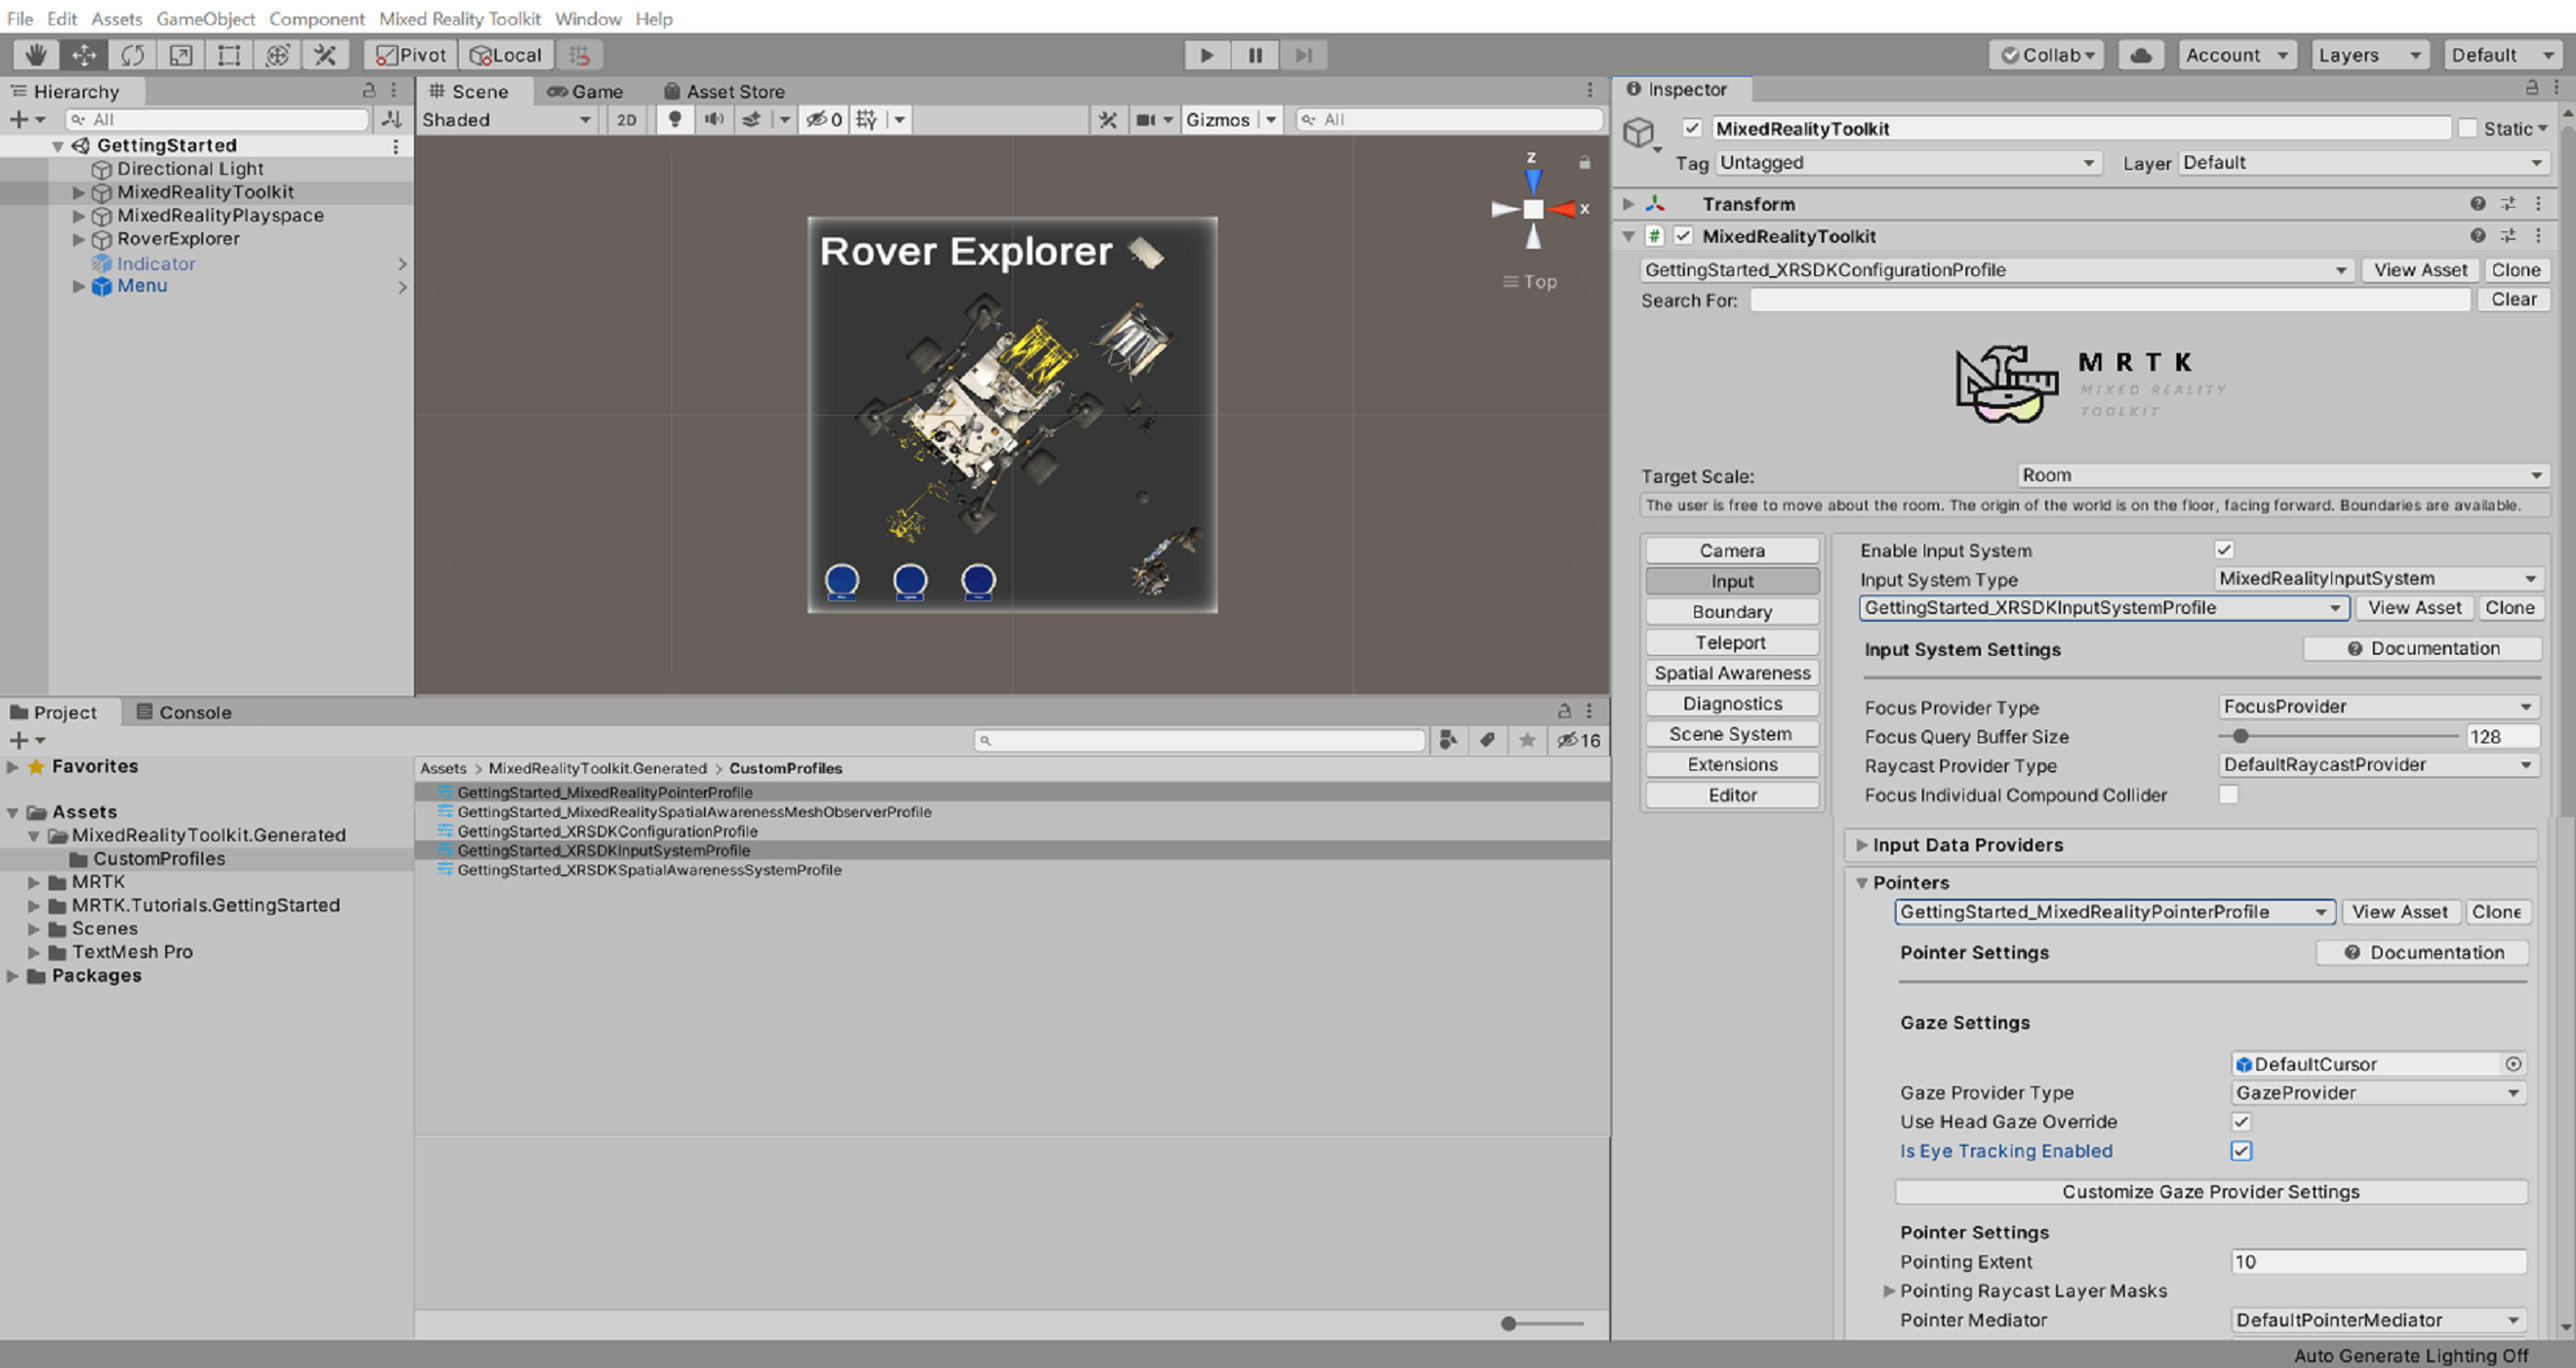
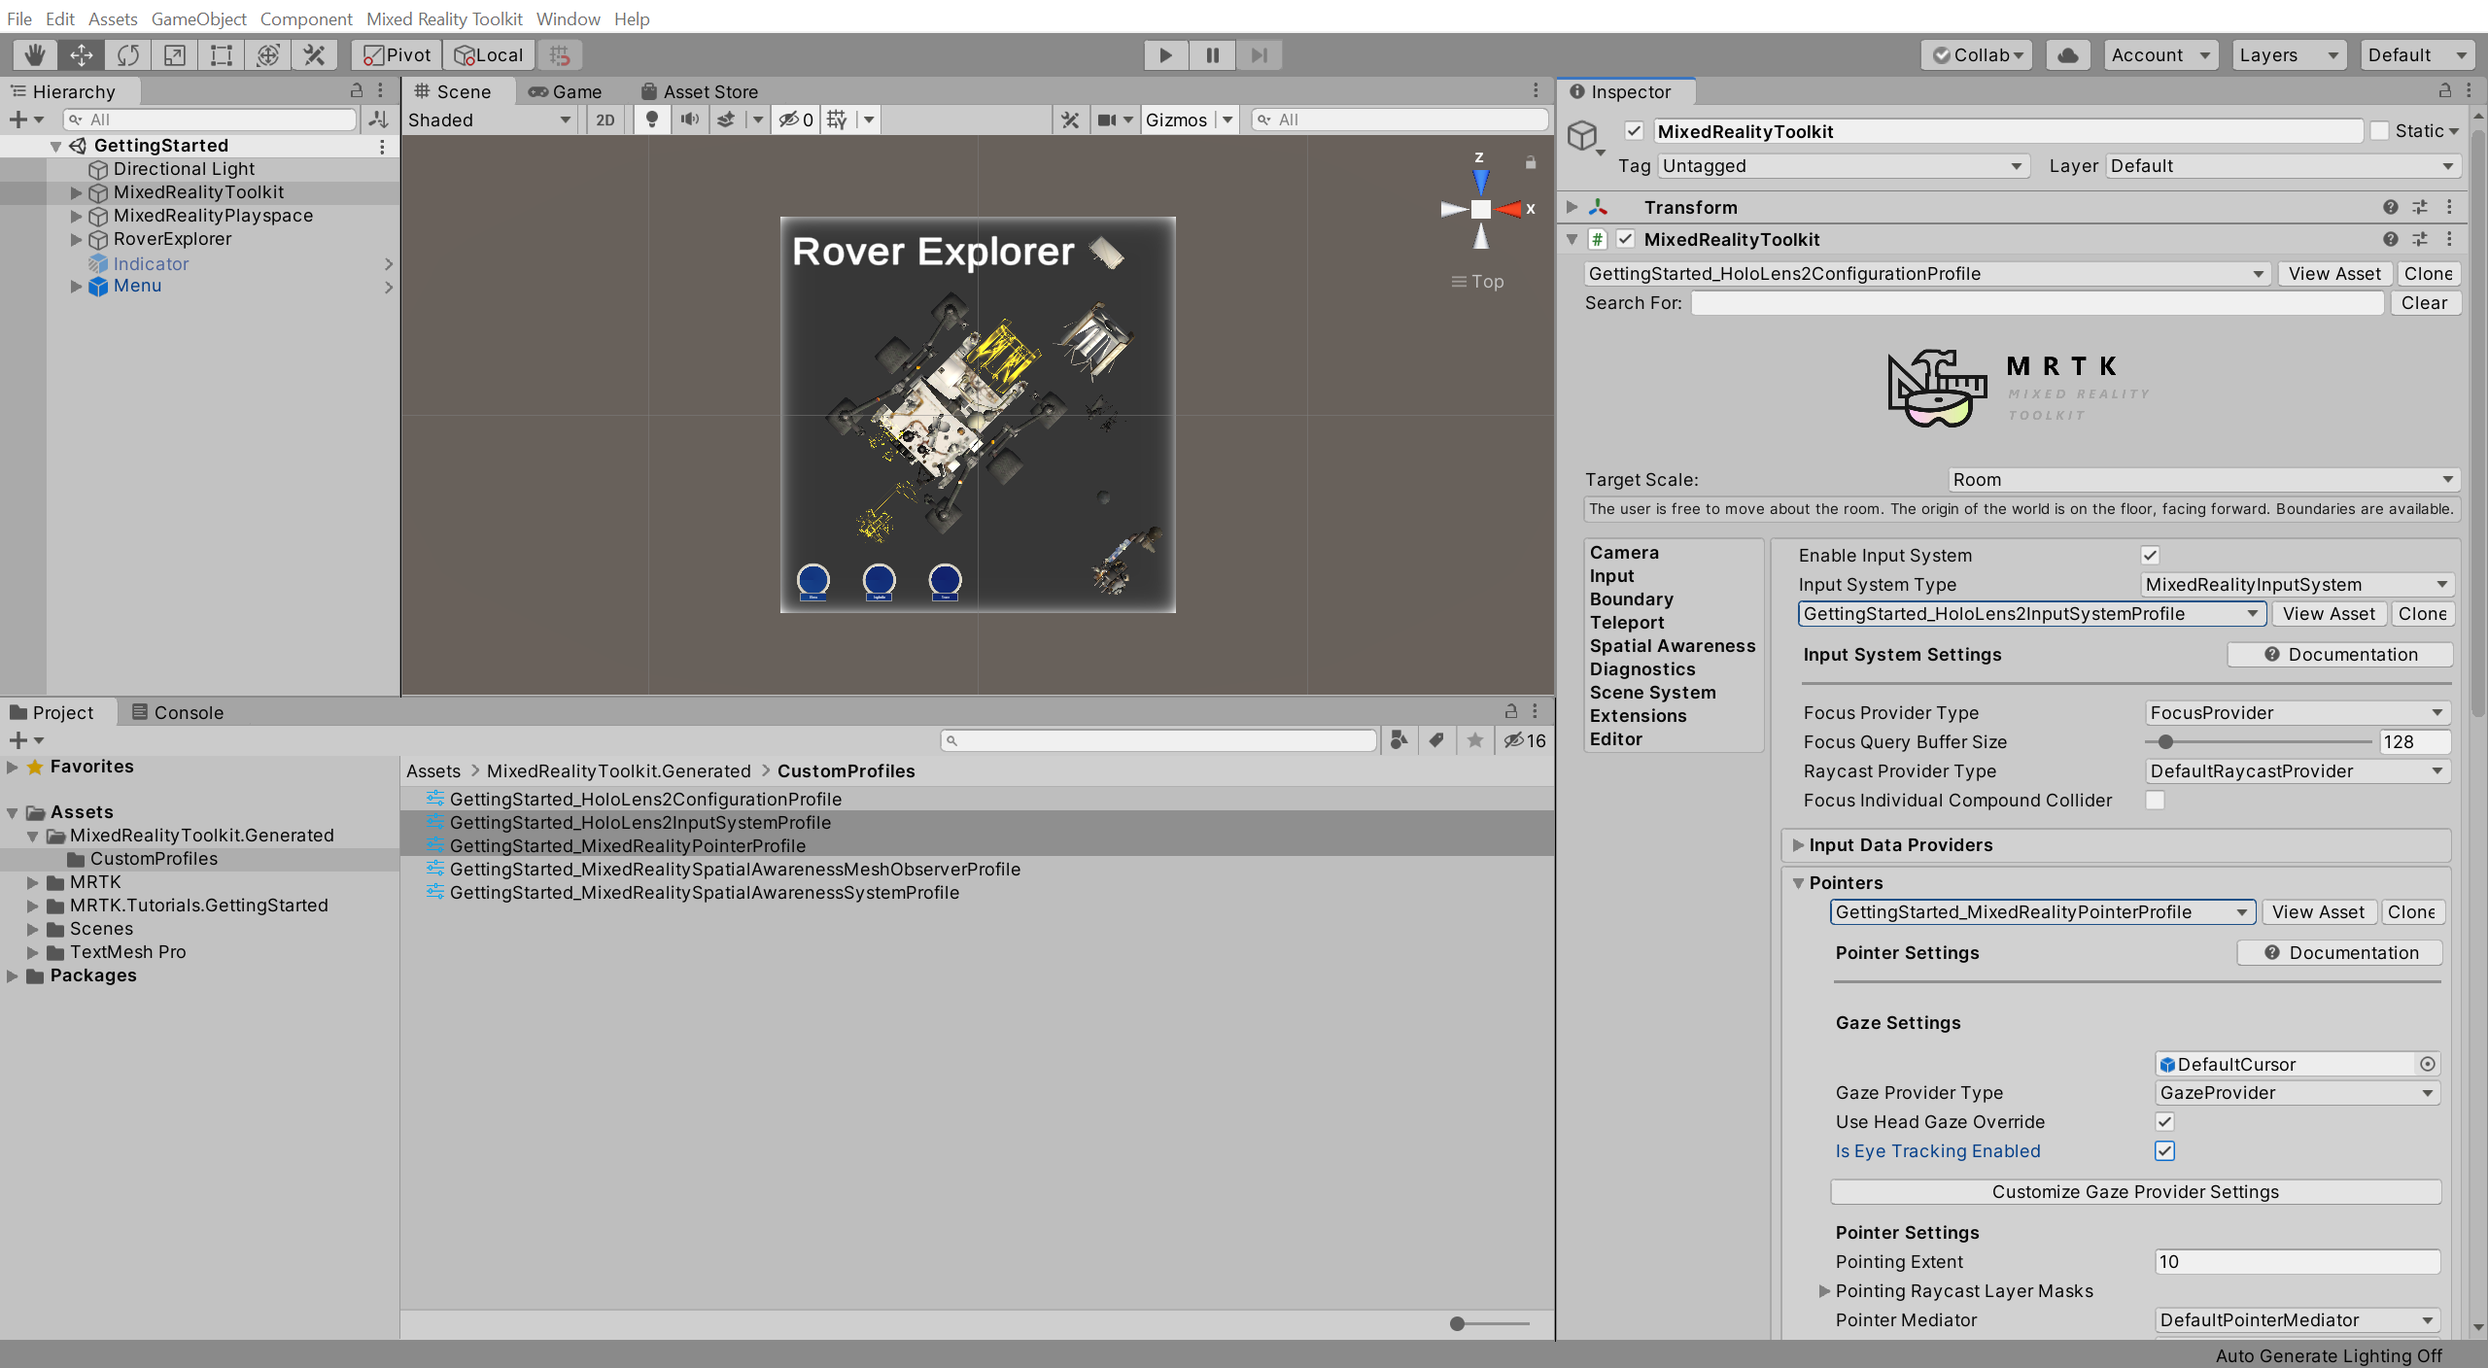
eye tracking document updated

diff --git a/mixed-reality-docs/mr-dev-docs/develop/unity/tutorials/mr-learning-base-08.md b/mixed-reality-docs/mr-dev-docs/develop/unity/tutorials/mr-learning-base-08.md
@@ -21,7 +21,7 @@ In this tutorial, you will learn how to enable eye-tracking for HoloLens 2 and a
 * Learn how to enable eye-tracking for HoleLens 2
 * Learn how to use eye-tracking to trigger action
 
-## Ensuring Eye Gaze Input capability and adding Eye Gaze Data Provider
+## Ensuring the Eye Gaze Input capability is enabled
 
 In the Unity menu, select Mixed Reality Toolkit > Utilities > **Configure Unity Project** to open the **MRTK Project Configurator** window, then in the **UWP Capabilities** section, verify that **Enable Eye Gaze Input Capability** is greyed out:
 
@@ -30,21 +30,11 @@ In the Unity menu, select Mixed Reality Toolkit > Utilities > **Configure Unity 
 > [!NOTE]
 > The Gaze Input capability should have been enabled during the [Apply the MRTK Project Configurator settings](mr-learning-base-02.md#selecting-mrtk-and-project-settings) instructions when you configured the Unity project at the beginning of this tutorial series. However, if it is not enabled, make sure you enable it now.
 
-In the Hierarchy window, select the MixedRealityToolkit object, then in the Inspector window, navigate to the Input tab:
-
-* Expand the **Input Data Providers** , click the **+ Add Data Provider** button to add a new Data Provider
-
-![Adding new speech commands](images/mr-learning-base/base-08-section1-step1-2.png)
-
-Assign **Microsoft.MixedReality.ToolKit.WindowsMixedReality.Input** > **WindowsMixedRealityEyeGazeProvider** to the **Type** field of the new Data Provider.
-
-![Adding new speech commands](images/mr-learning-base/base-08-section1-step1-3.png)
-
 ## Enabling eye based gaze in the gaze provider
 
 In the Hierarchy window, select the **MixedRealityToolkit** object, then in the Inspector window, select the MixedRealityToolkit > **Input** tab and take the following steps:
 
-* Clone the **DefaultXRSDKInputSystemProfile** and give it a suitable name, for example, _GettingStarted_XRSDKInputSystemProfile_
+* Clone the **DefaultHoloLens2InputSystemProfile** and give it a suitable name, for example, _GettingStarted_HoloLens2InputSystemProfile_
 * Expand the **Pointers** section
 * Clone the **DefaultMixedRealityPointerProfile** and give it a suitable name, for example, _GettingStarted_MixedRealityPointerProfile_
 * Locate the **Gaze Settings** section and check the **Is Eye Tracking Enabled** checkbox

diff --git a/mixed-reality-docs/mr-dev-docs/develop/unity/tutorials/mr-learning-base-06.md b/mixed-reality-docs/mr-dev-docs/develop/unity/tutorials/mr-learning-base-06.md
@@ -92,17 +92,17 @@ In the Hierarchy window, rename the object to **Menu**, then expand its **Button
 
 ![Unity with Menu object selected and ButtonCollection object expanded](images/mr-learning-base/base-06-section2-step1-2.png)
 
-Rename the first button to **Indicator**, then in the Inspector window, configure the **Button Config Helper (Script)** component as follows:
+Rename the first button in the ButtonCollection to Indicator, then in the Inspector window, configure the Button Config Helper (Script) component as follows:
 
 * Change the **Main Label Text** to match the name of the button
-* Assign the **Indicator** object to the **None (Object)** field
+* Assign the Indicator object that looks like a chevron, to the None (Object) field
 * From the **No Function** dropdown, select **GameObject** > **SetActive (bool)** to set this function as the action to be executed when the event is triggered
 * Verify that the argument checkbox is **checked**
 * Change the **Icon** to the 'search' icon
 
 ![Unity with Indicator button object Button Config Helper configured](images/mr-learning-base/base-06-section2-step1-3.png)
 
-In the Hierarchy window, select the **Indicator** object, then in the Inspector window:
+To disable the chevron Indicator object, in the Hierarchy window, select the Indicator object that looks like chevron, then in the Inspector window:
 
 * Uncheck the checkbox next to its name to make it inactive by default
 * Use the **Add Component** button to add the **Directional Indicator Controller (Script)** component
@@ -110,7 +110,7 @@ In the Hierarchy window, select the **Indicator** object, then in the Inspector 
 ![Unity with Indicator object selected, disabled, and DirectionalIndicatorController component added](images/mr-learning-base/base-06-section2-step1-4.png)
 
 > [!NOTE]
-> Now, when the app starts, the Indicator is disabled by default and can be enabled by pressing the Indicator button.
+> Now, when the app starts, the chevron Indicator is disabled by default and can be enabled by pressing the Indicator button.
 
 Rename the second button to **TapToPlace**, then in the Inspector window, configure the **Button Config Helper (Script)** component as follows:
 
